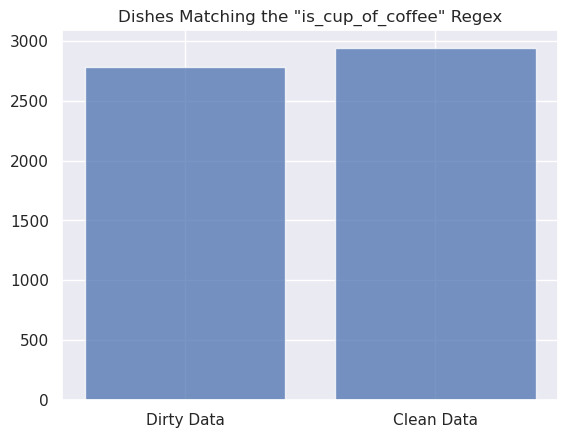
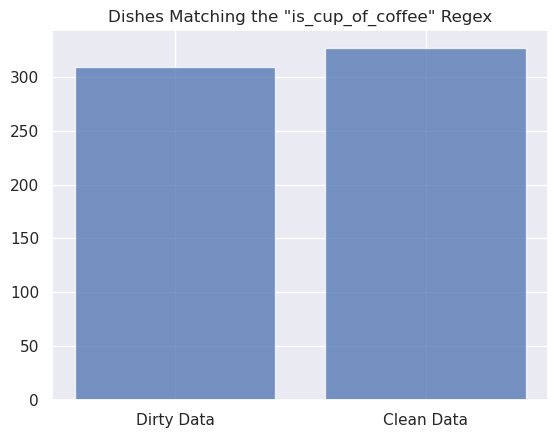
Fix profile_dish_data bug

diff --git a/src/main.py b/src/main.py
@@ -85,7 +85,7 @@ def profile_menu_data(menu_df: pd.DataFrame) -> List[int]:
 
 @timer
 def profile_dish_data(dish_df: pd.DataFrame) -> int:
-    return dish_df[dish_df['name'].str.contains(IS_CUP_OF_COFFEE, na=False)].size
+    return dish_df[dish_df['name'].str.contains(IS_CUP_OF_COFFEE, na=False)]['id'].size
 
 @timer
 def query_data(menu_df: pd.DataFrame, page_df: pd.DataFrame, item_df: pd.DataFrame, dish_df: pd.DataFrame) -> List[float]:
